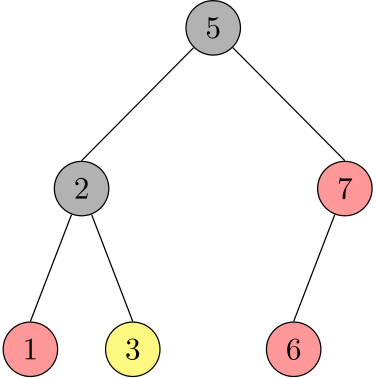
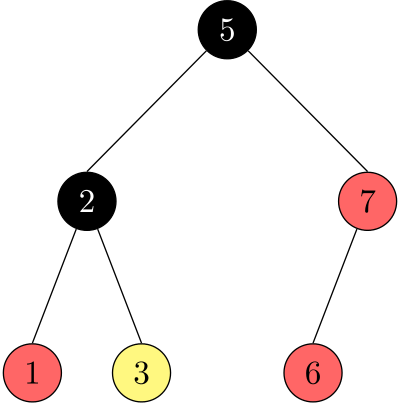
Changed Red-Black coloring.
Now the program draws a tree that is actually tree with
red and black nodes.  Before a gray color was beign used.

diff --git a/tree.c b/tree.c
@@ -151,7 +151,7 @@ static void node_check_red_node(struct bstree *node)
 
 static char *node_color_to_str(struct bstree *node)
 {
-	char *str = malloc(20 * sizeof(char));
+	char *str = malloc(40 * sizeof(char));
 	
 	if (str == NULL) {
 		fprintf(stderr, "Can't allocate memory for color string.\n");
@@ -163,11 +163,11 @@ static char *node_color_to_str(struct bstree *node)
 		strcpy(str, "[fill=");
 		switch (node->color) {
 		case BLACK:
-			strcat(str, "black!30");
+			strcat(str, "black!100, font=\\color{white}");
 			break;
 		case RED:
 			node_check_red_node(node);
-			strcat(str, "red!40");
+			strcat(str, "red!60");
 			break;
 		default:
 		case UNKNOWN:
